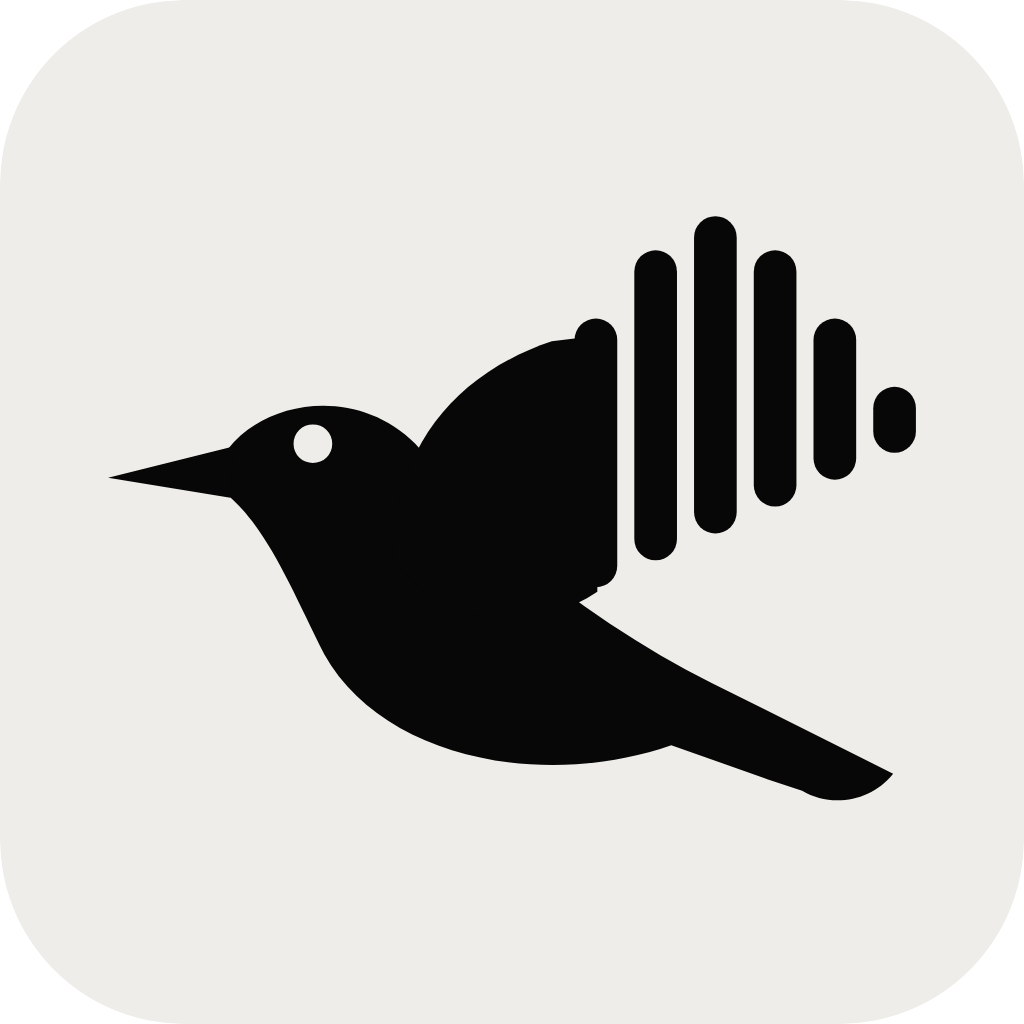
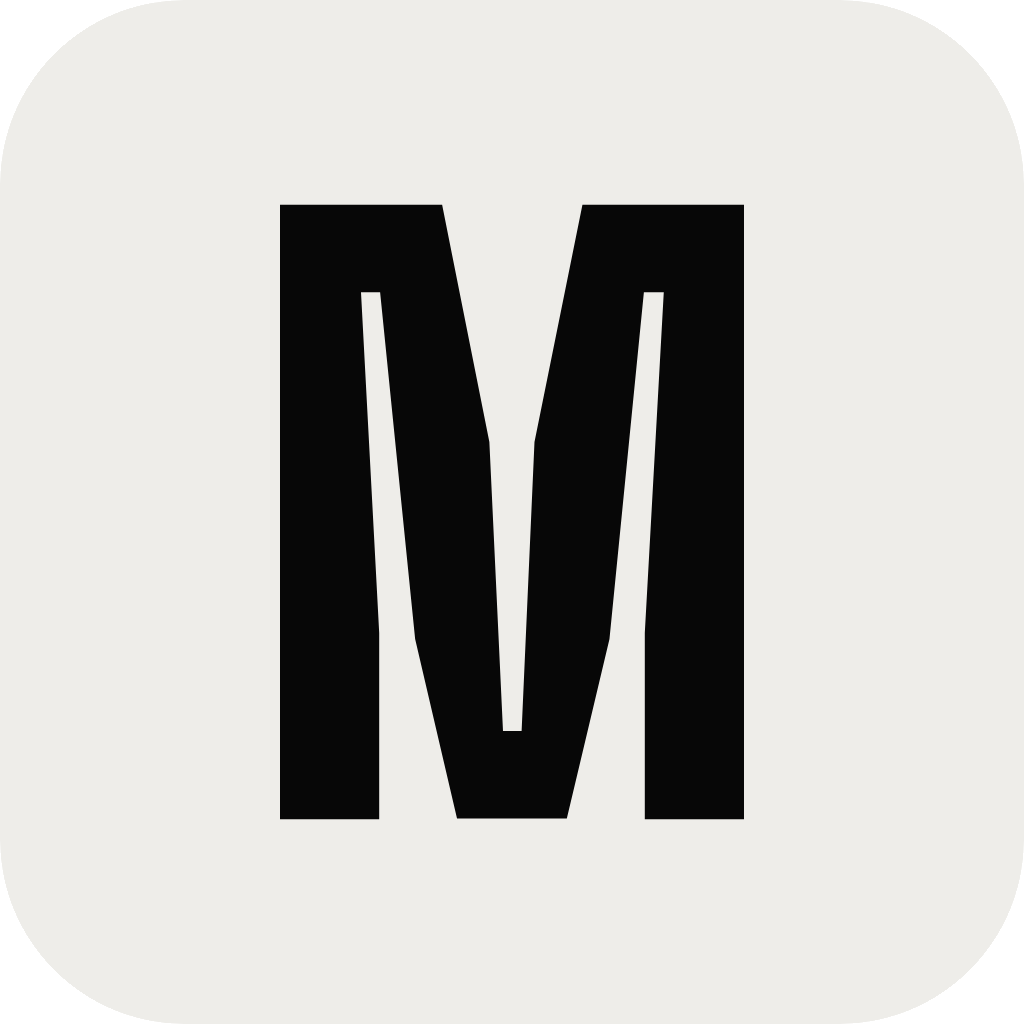
Design: M mark and Big Shoulders Display
Swap the blackbird for a single condensed M, cut from Big Shoulders
Display at weight 800 and flattened to a path, for the sidebar tile,
the site header, the favicon and the press-kit tiles. The same face
replaces Grenze Gotisch for the wordmark (now set in capitals) and the
page and section titles.

Changed region(s): [[0.125, 0.1875, 0.9062, 0.8125]]

diff --git a/app/src/lib/brand-geometry.ts b/app/src/lib/brand-geometry.ts
@@ -1,51 +1,29 @@
 /**
- * The Mirli blackbird as plain path data, shared by the React mark
- * (`components/brand-mark.tsx`) and the static files written by
- * `scripts/gen-brand-marks.ts` (favicon, press kit), so there is one drawing.
+ * The Mirli mark: a capital M cut from Big Shoulders Display at weight 800,
+ * the same face as the wordmark and page titles. The outline is the font's
+ * own glyph, flattened to a path so the favicon and press-kit files need no
+ * webfont to render it (regenerate with scripts/gen-brand-marks.ts if the
+ * weight changes).
  *
- * Drawn in a 200-unit box; `VIEWBOX` is the square around the bird.
+ * Coordinates are font units (2000 per em) with the origin at the glyph's
+ * top-left: the M is `M_WIDTH` wide and `M_HEIGHT` (cap height) tall.
  */
 
-export const VIEWBOX = { x: 30, y: 29, size: 150 } as const;
+export const M_PATH =
+  "M0 1600V0H422.2L545.2 618L580.7 1370.4H629.2L662.7 618L787.6 0H1208.3V1600H950V1114.5L999.4 227.9H947.6L858 1131L746.9 1598.3H461L351.9 1131L260.7 227.9H210.9L258.3 1114.5V1600Z";
+export const M_WIDTH = 1208.3;
+export const M_HEIGHT = 1600;
 
-/** Body with the eye cut out (draw with `fill-rule="evenodd"`). */
-export const BODY =
-  "M55,93 C62,84 78,82 88,92 L104,110 C116,120 128,128 140,134 L172,150 " +
-  "C168,155 161,156 156,153 L150,151 L133,145 C110,153 82,147 72,129 C66,117 62,107 55,101 Z " +
-  "M73.4,92 a3.4,3.4 0 1,0 -6.8,0 a3.4,3.4 0 1,0 6.8,0 Z";
-export const BEAK = "M34,98 L56,92.5 L55.5,101.5 Z";
-export const WING = "M84,112 C84,94 94,80 112,74 L120,73 L120,118 C108,126 92,124 84,112 Z";
-
-/** Six thin bars for large sizes, four thick ones that survive 16-32px. */
-export const CUTS = {
-  full: { bars: [70, 58, 52, 58, 70, 82], width: 7.5, pitch: 10.5 },
-  small: { bars: [66, 54, 60, 76], width: 11, pitch: 14 },
-} as const;
-
-export type BrandCut = keyof typeof CUTS;
-
-export interface Bar {
-  x: number;
-  y: number;
-  width: number;
-  height: number;
-  rx: number;
+/**
+ * A square viewBox with the M centred in it. `inset` is the share of the
+ * square left empty above and below the letter.
+ */
+export function markViewBox(inset = 0): { x: number; y: number; size: number } {
+  const size = M_HEIGHT / (1 - inset * 2);
+  return { x: (M_WIDTH - size) / 2, y: (M_HEIGHT - size) / 2, size };
 }
 
-/** The waveform bars: each one stops on the wing's rising underside. */
-export function bars(cut: BrandCut): Bar[] {
-  const c = CUTS[cut];
-  return c.bars.map((top, i) => {
-    const x = 116 + i * c.pitch;
-    const bottom = 118 - (x + c.width / 2 - 118) * 0.45;
-    return { x, y: top, width: c.width, height: bottom - top, rx: c.width / 2 };
-  });
-}
-
-/** The bird as SVG markup in one colour, for files written outside React. */
-export function birdSvgMarkup(cut: BrandCut, ink: string): string {
-  const rects = bars(cut)
-    .map((b) => `<rect x="${b.x}" y="${b.y}" width="${b.width}" height="${b.height.toFixed(2)}" rx="${b.rx}"/>`)
-    .join("");
-  return `<g fill="${ink}"><path d="${BODY}" fill-rule="evenodd"/><path d="${BEAK}"/><path d="${WING}"/>${rects}</g>`;
+/** The M as standalone SVG markup, for the static files. */
+export function markSvgMarkup(ink: string): string {
+  return `<path d="${M_PATH}" fill="${ink}"/>`;
 }

diff --git a/scripts/gen-brand-marks.ts b/scripts/gen-brand-marks.ts
@@ -1,11 +1,11 @@
 #!/usr/bin/env -S npx tsx
 /**
- * Writes the static copies of the Mirli mark from the one drawing in
+ * Writes the static copies of the Mirli mark (the display-face M) from
  * app/src/lib/brand-geometry.ts:
  *
- *   app/public/favicon.svg            paper bird on a black tile (both builds)
+ *   app/public/favicon.svg                 paper M on a black tile (both builds)
  *   site/public/press/mirli-mark.svg       the same, 1024 px, for the press kit
- *   site/public/press/mirli-mark-light.svg black bird on a paper tile
+ *   site/public/press/mirli-mark-light.svg black M on a paper tile
  *
  * The press kit's PNGs are rendered from those SVGs with a headless browser:
  *
@@ -18,31 +18,31 @@ import { writeFileSync } from "node:fs";
 import path from "node:path";
 import { fileURLToPath } from "node:url";
 
-import { VIEWBOX, birdSvgMarkup, type BrandCut } from "../app/src/lib/brand-geometry";
+import { markSvgMarkup, markViewBox } from "../app/src/lib/brand-geometry";
 
 const root = path.resolve(path.dirname(fileURLToPath(import.meta.url)), "..");
 
 const INK = "#070707";
 const PAPER = "#eeede9";
 
-/** A rounded tile with the bird centred and inset so it breathes. */
-function tile(opts: { cut: BrandCut; ink: string; ground: string; px?: number }): string {
-  const { x, y, size } = VIEWBOX;
-  const pad = size * 0.1;
-  const outer = size + pad * 2;
+/** A rounded tile with the M centred and inset so it breathes. */
+function tile(opts: { ink: string; ground: string; inset: number; px?: number }): string {
+  const box = markViewBox(opts.inset);
+  const [x, y, size] = [box.x, box.y, box.size].map((n) => Math.round(n * 10) / 10);
   const px = opts.px ? ` width="${opts.px}" height="${opts.px}"` : "";
   return (
-    `<svg xmlns="http://www.w3.org/2000/svg" viewBox="${x - pad} ${y - pad} ${outer} ${outer}"${px}>` +
-    `<rect x="${x - pad}" y="${y - pad}" width="${outer}" height="${outer}" rx="${outer * 0.18}" fill="${opts.ground}"/>` +
-    birdSvgMarkup(opts.cut, opts.ink) +
+    `<svg xmlns="http://www.w3.org/2000/svg" viewBox="${x} ${y} ${size} ${size}"${px}>` +
+    `<rect x="${x}" y="${y}" width="${size}" height="${size}" rx="${Math.round(size * 0.18)}" fill="${opts.ground}"/>` +
+    markSvgMarkup(opts.ink) +
     `</svg>\n`
   );
 }
 
 const files: Record<string, string> = {
-  "app/public/favicon.svg": tile({ cut: "small", ink: PAPER, ground: INK }),
-  "site/public/press/mirli-mark.svg": tile({ cut: "full", ink: PAPER, ground: INK, px: 1024 }),
-  "site/public/press/mirli-mark-light.svg": tile({ cut: "full", ink: INK, ground: PAPER, px: 1024 }),
+  // Tighter in the favicon: at 16 px every pixel of letter counts.
+  "app/public/favicon.svg": tile({ ink: PAPER, ground: INK, inset: 0.14 }),
+  "site/public/press/mirli-mark.svg": tile({ ink: PAPER, ground: INK, inset: 0.2, px: 1024 }),
+  "site/public/press/mirli-mark-light.svg": tile({ ink: INK, ground: PAPER, inset: 0.2, px: 1024 }),
 };
 
 for (const [rel, svg] of Object.entries(files)) {

diff --git a/app/src/components/brand-mark.tsx b/app/src/components/brand-mark.tsx
@@ -1,48 +1,39 @@
 /**
- * The Mirli mark: a blackbird in flight whose raised wing ends in waveform
- * bars, so the trailing feathers read as a meter. One colour,
- * `currentColor`, so it sits on any tile the way a Lucide icon does. The
- * drawing itself lives in `lib/brand-geometry.ts`, shared with the favicon
- * and press-kit files.
- *
- * `detail="small"` swaps six thin bars for four thick ones, the cut that
- * survives 16-32px (the sidebar tile, the favicon). The eye is a hole in the
- * body, not a second colour, so the mark stays single-ink.
+ * The Mirli mark: a single capital M in the display face, drawn as a path
+ * (`lib/brand-geometry.ts`, shared with the favicon and press-kit files).
+ * One colour, `currentColor`, so it sits on any tile the way a Lucide icon
+ * does. `inset` pads the square around the letter.
  */
 
-import { BEAK, BODY, VIEWBOX, WING, bars, type BrandCut } from "@/lib/brand-geometry";
+import { M_PATH, markViewBox } from "@/lib/brand-geometry";
 import { cn } from "@/lib/utils";
 
 export function BrandMark({
-  detail = "full",
+  inset = 0,
   className,
   title,
 }: {
-  detail?: BrandCut;
+  inset?: number;
   className?: string;
   /** Omit for a decorative mark next to the wordmark. */
   title?: string;
 }) {
+  const box = markViewBox(inset);
   return (
     <svg
-      viewBox={`${VIEWBOX.x} ${VIEWBOX.y} ${VIEWBOX.size} ${VIEWBOX.size}`}
+      viewBox={`${box.x} ${box.y} ${box.size} ${box.size}`}
       fill="currentColor"
       className={className}
       role={title ? "img" : undefined}
       aria-hidden={title ? undefined : true}
     >
       {title ? <title>{title}</title> : null}
-      <path d={BODY} fillRule="evenodd" />
-      <path d={BEAK} />
-      <path d={WING} />
-      {bars(detail).map((b) => (
-        <rect key={b.x} x={b.x} y={b.y} width={b.width} height={b.height} rx={b.rx} />
-      ))}
+      <path d={M_PATH} />
     </svg>
   );
 }
 
-/** The name, set in the blackletter display face. */
+/** The name, set in the display face. */
 export function Wordmark({ className }: { className?: string }) {
-  return <span className={cn("font-display tracking-wide", className)}>Mirli</span>;
+  return <span className={cn("font-display uppercase tracking-[0.04em]", className)}>Mirli</span>;
 }

diff --git a/app/src/index.css b/app/src/index.css
@@ -6,15 +6,15 @@
    the promo films use — see docs/design-direction.md. */
 @import "@fontsource-variable/inter/opsz.css";
 @import "@fontsource-variable/jetbrains-mono";
-/* Grenze Gotisch: a blackletter drawn to be read, for the wordmark and the
-   page titles only. Everything you read at length stays in Inter. */
-@import "@fontsource-variable/grenze-gotisch";
+/* Big Shoulders Display: a condensed, film-poster face for the wordmark, the
+   M mark and page titles only. Everything you read at length stays in Inter. */
+@import "@fontsource-variable/big-shoulders-display";
 
 @custom-variant dark (&:is(.dark *));
 
 @theme inline {
     --font-heading: 'Inter Variable', ui-sans-serif, system-ui, sans-serif;
-    --font-display: 'Grenze Gotisch Variable', 'Iowan Old Style', Georgia, serif;
+    --font-display: 'Big Shoulders Display Variable', 'Arial Narrow', 'Roboto Condensed', sans-serif;
     --font-sans: 'Inter Variable', ui-sans-serif, system-ui, sans-serif;
     --font-mono: 'JetBrains Mono Variable', ui-monospace, 'Cascadia Mono', Consolas, monospace;
     /* One step under text-xs: meter readouts, rack labels, the sidebar's
@@ -234,13 +234,13 @@
   }
 }
 
-/* Page titles are the one place the blackletter speaks. Outside any layer on
-   purpose: most titles also carry `font-heading`, and a layered rule would
+/* Page titles are the one place the display face speaks. Outside any layer
+   on purpose: most titles also carry `font-heading`, and a layered rule would
    lose to that utility. */
 h1 {
   font-family: var(--font-display);
-  font-weight: 600;
-  letter-spacing: 0.01em;
+  font-weight: 800;
+  letter-spacing: 0.005em;
 }
 
 /*

diff --git a/site/src/routes/press.tsx b/site/src/routes/press.tsx
@@ -577,7 +577,7 @@ export function PressPage() {
         {/* ----------------------------------------------------------- brand */}
         <Section id="brand" title="Mark, colours and type">
           <p className="text-muted-foreground mt-3 max-w-2xl leading-relaxed">
-            The mark is a blackbird in flight whose wing ends in waveform bars, on a rounded tile.
+            The mark is a single M in Big Shoulders Display, on a rounded tile.
             Use whichever tile suits your background, and please don't recolour or redraw it.
           </p>
           <ul className="mt-6 grid gap-5 sm:grid-cols-2">
@@ -621,8 +621,8 @@ export function PressPage() {
 
           <h3 className="font-heading mt-10 text-lg font-semibold tracking-tight">Type</h3>
           <p className="text-muted-foreground mt-2 max-w-2xl text-sm leading-relaxed">
-            <span className="text-foreground font-display text-base font-semibold">Grenze Gotisch</span>,
-            a blackletter drawn to be read, for the wordmark and page titles only;{" "}
+            <span className="text-foreground font-display text-base font-extrabold">Big Shoulders Display</span>,
+            a condensed poster face, for the mark, the wordmark and page titles only;{" "}
             <span className="text-foreground font-medium">Inter</span> for the interface and
             everything read at length; and{" "}
             <span className="text-foreground font-mono">JetBrains Mono</span> for prompts, labels

diff --git a/site/src/components/site-header.tsx b/site/src/components/site-header.tsx
@@ -3,7 +3,7 @@
  * (see `Layout` in `../layout.tsx`), so it lives above `<Outlet />` rather
  * than inside any one page.
  *
- * The mark is the app's own (`BrandMark`, the blackbird, and the blackletter
+ * The mark is the app's own (`BrandMark`, the M, and the display-face
  * `Wordmark`, as in `app/src/components/app-sidebar.tsx`) rather than a
  * second logo for the marketing site.
  */
@@ -32,8 +32,10 @@ export function SiteHeader() {
           to="/"
           className="focus-visible:ring-ring/50 flex items-center gap-2 rounded outline-none focus-visible:ring-3"
         >
-          <BrandMark className="size-8" />
-          <Wordmark className="text-2xl leading-none font-semibold" />
+          <span className="bg-foreground text-background flex size-8 items-center justify-center rounded-sm">
+            <BrandMark inset={0.04} className="size-6" />
+          </span>
+          <Wordmark className="text-2xl leading-none font-extrabold" />
         </Link>
 
         <nav aria-label="Primary" className="flex items-center gap-4 text-sm">

diff --git a/app/src/components/app-sidebar.tsx b/app/src/components/app-sidebar.tsx
@@ -684,10 +684,10 @@ export function AppSidebar() {
                     dashboard through the catch-all. */}
                 <NavLink to="/" end onClick={() => setOpenMobile(false)}>
                   <div className="bg-sidebar-primary text-sidebar-primary-foreground flex aspect-square size-8 items-center justify-center rounded-sm">
-                    <BrandMark detail="small" className="size-6" />
+                    <BrandMark inset={0.04} className="size-6" />
                   </div>
                   <div className="grid flex-1 text-left text-sm leading-tight">
-                    <Wordmark className="truncate text-lg leading-none font-semibold" />
+                    <Wordmark className="truncate text-lg leading-none font-extrabold" />
                     <span className="text-muted-foreground truncate text-xs">
                       {IS_MOCK ? "mock backend" : "local sound effects"}
                     </span>

diff --git a/site/src/site.css b/site/src/site.css
@@ -26,6 +26,6 @@
    rule there, so it beats the `font-heading` utility the titles carry. */
 h2 {
   font-family: var(--font-display);
-  font-weight: 600;
-  letter-spacing: 0.01em;
+  font-weight: 800;
+  letter-spacing: 0.005em;
 }

diff --git a/CHANGELOG.md b/CHANGELOG.md
@@ -7,7 +7,7 @@ to follow [Semantic Versioning](https://semver.org/).
 ## [Unreleased]
 
 ### Changed
-- A new look for the app and the site: black and white, with a blackbird mark whose wing ends in waveform bars, a blackletter face for page titles, square-cut corners and a film grain on the site. Status colours stay, drained down, with oxblood for errors.
+- A new look for the app and the site: black and white, with a single condensed M for the mark and app icon, Big Shoulders Display for the wordmark and page titles, square-cut corners and a film grain on the site. Status colours stay, drained down, with oxblood for errors.
 - The site's download page has a new design: a full-width hero, the Soundbox film in a frame that flattens as you scroll, live GitHub numbers and a card per installer.
 
 ### Fixed
